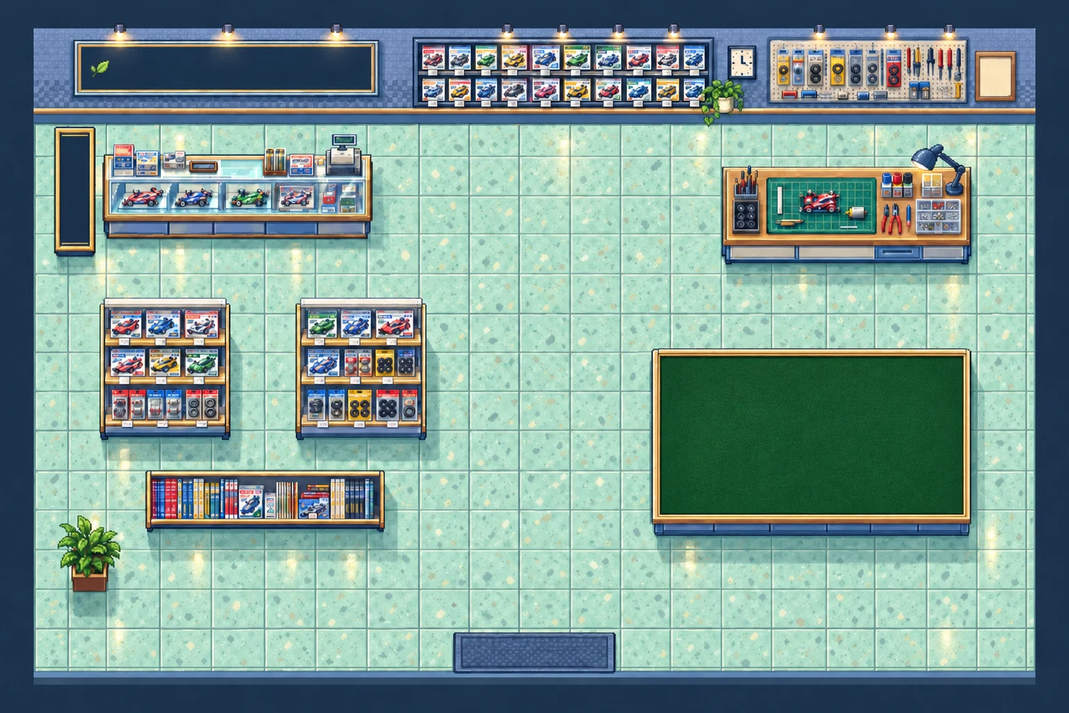
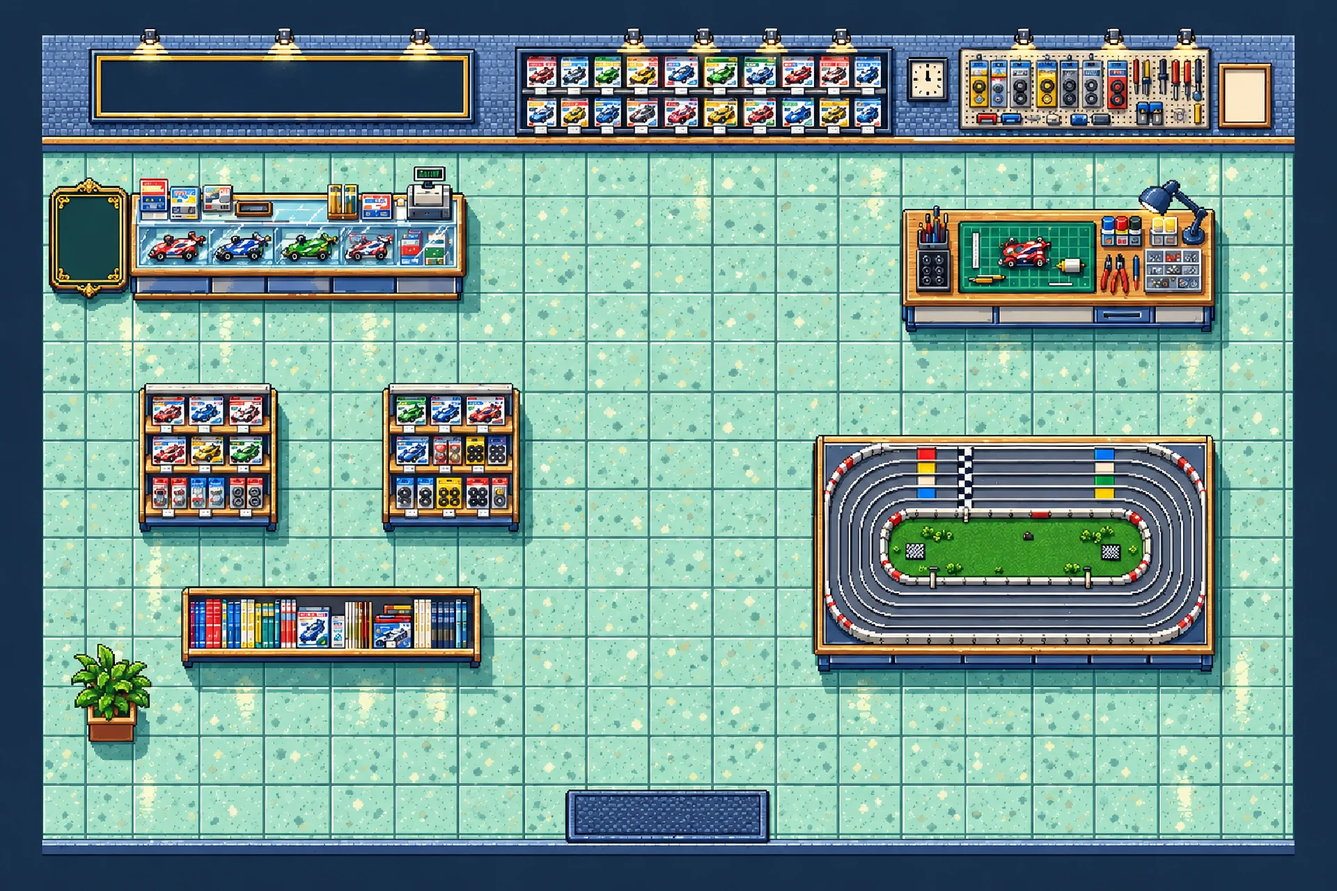
Refresh game art as high-detail pixel art

diff --git a/src/game/TownArt.ts b/src/game/TownArt.ts
@@ -68,25 +68,25 @@ function house(scene:Phaser.Scene,block:typeof townBlocks[number],index:number){
   if(index%3===1){const lx=xx+6,ly=yy+h-43;p.line([[lx,ly],[lx+46,ly+2]],'#485e5a',.5);for(let i=0;i<4;i++){const x=lx+3+i*11;p.rect(x,ly+2,8,11,['#d6c7ab','#889eab','#bc8e87','#90aa92'][i]);p.rect(x+1,ly+2,6,1,'#eaddbd');p.rect(x+2,ly+4,1,7,'#344c4b22');p.rect(x+3,ly,1,3,'#dbbd80');}}
   if(index%3===2){const bx=xx+w-18,by=yy+h+6;p.wheel(bx-9,by,7,'#a8b8ad');p.wheel(bx+12,by,7,'#a8b8ad');p.line([[bx-9,by],[bx-3,by-12],[bx+5,by],[bx-9,by],[bx+1,by-10],[bx+12,by]],'#7c4f57',1.5);p.line([[bx+12,by],[bx+9,by-15],[bx+14,by-15]],'#425e62',1);p.rect(bx-6,by-14,7,2,'#3a4f55');}
   for(const fx of [xx+6,xx+w-30]){p.rect(fx,yy+h+4,23,7,'#69775d');p.rect(fx,yy+h+4,23,1,'#b0ac7a');for(let j=0;j<5;j++){const xx=fx+2+j*4;p.rect(xx,yy+h,1,5,'#46674e');p.rect(xx-1,yy+h-2,3,2,j%2?'#d3b787':'#c68c8f');p.rect(xx,yy+h-2,1,1,'#f0d8a0');}}
-  t.refresh();t.setFilter(Phaser.Textures.FilterMode.LINEAR);
+  t.refresh();t.setFilter(Phaser.Textures.FilterMode.NEAREST);
  }
  scene.add.image(x-15,y-40,key).setOrigin(0).setDisplaySize(w+40,h+64).setDepth(y+h);
  if(w>=130){tree(scene,x-32,y+h+8);tree(scene,x+w+32,y+h+8);}else tree(scene,index%2?x-42:x+w+42,y+h-8);
 }
 export function drawTown(scene:Phaser.Scene,progress:WorldProgress){
  // 大きな街でも個々の地面テクスチャは2048px以下の幅に保つ。
- for(let x=0;x<townSize.width;x+=2048){const key=`midorikawa-ground-16-${x}`;if(!scene.textures.exists(key)){const texture=scene.textures.createCanvas(key,Math.min(2048,townSize.width-x),townSize.height)!;texture.context.translate(-x,0);ground(texture.context);texture.refresh();}scene.add.image(x,0,key).setOrigin(0).setDepth(-100);}
+ for(let x=0;x<townSize.width;x+=2048){const key=`midorikawa-ground-16-${x}`;if(!scene.textures.exists(key)){const texture=scene.textures.createCanvas(key,Math.min(2048,townSize.width-x),townSize.height)!;texture.context.translate(-x,0);ground(texture.context);texture.refresh();texture.setFilter(Phaser.Textures.FilterMode.NEAREST);}scene.add.image(x,0,key).setOrigin(0).setDepth(-100);}
 
  townBlocks.forEach((block,index)=>house(scene,block,index));
  for(const venue of townVenues)if(venue.kind==='outdoor')drawOutdoorCourse(scene,venue,isVenueOpen(venue,progress));else drawVenueFacade(scene,venue,isVenueOpen(venue,progress));
  for(const x of townRoads.vertical)for(let y=160;y<2300;y+=180){if(townVenues.some(v=>Math.abs(x-v.x)<v.w+100&&y>v.y-80&&y<v.y+v.h+70))continue;tree(scene,x-100,y);lamp(scene,x+88,y+50);}
  for(let i=0;i<55;i++){const x=110+(i*437)%2780,y=210+(i*281)%1980;if([...townVenues,...townBlocks].some(v=>x>v.x-90&&x<v.x+v.w+90&&y>v.y-100&&y<v.y+v.h+90)||townRoads.vertical.some(v=>Math.abs(v-x)<100)||townRoads.horizontal.some(v=>Math.abs(v-y)<100))continue;tree(scene,x,y);tree(scene,x+28,y+34);}
  for(const y of [100,2290])for(let x=100;x<2930;x+=125)tree(scene,x,y);
- for(const [x,y] of [[1440,1570],[1660,1570],[1440,1740],[1660,1740],[670,830],[2200,2040]]){tree(scene,x,y);const key='park-bench-16';if(!scene.textures.exists(key)){const t=scene.textures.createCanvas(key,112,64)!;t.context.scale(2,2);const p=new SceneryPen(t.context);p.shadow(3,14,45,10);for(const xx of [8,40]){p.rect(xx,14,3,15,'#3d5357');p.rect(xx+1,15,1,12,'#8fa19a');}p.rect(3,3,46,9,'#5c5d4a');for(let row=0;row<3;row++){p.gradient(4,3+row*3,44,2,'#c3ab7b','#947f5e');}p.gradient(3,14,46,7,'#d2b589','#8d7a5c');p.material(4,14,44,7,'wood',12);for(const xx of [8,41])p.rect(xx,15,1,1,'#e9d4a7');t.refresh();}scene.add.image(x+20,y+1,key).setOrigin(0).setDisplaySize(56,32).setDepth(y+24);}
+ for(const [x,y] of [[1440,1570],[1660,1570],[1440,1740],[1660,1740],[670,830],[2200,2040]]){tree(scene,x,y);const key='park-bench-16';if(!scene.textures.exists(key)){const t=scene.textures.createCanvas(key,112,64)!;t.context.scale(2,2);const p=new SceneryPen(t.context);p.shadow(3,14,45,10);for(const xx of [8,40]){p.rect(xx,14,3,15,'#3d5357');p.rect(xx+1,15,1,12,'#8fa19a');}p.rect(3,3,46,9,'#5c5d4a');for(let row=0;row<3;row++){p.gradient(4,3+row*3,44,2,'#c3ab7b','#947f5e');}p.gradient(3,14,46,7,'#d2b589','#8d7a5c');p.material(4,14,44,7,'wood',12);for(const xx of [8,41])p.rect(xx,15,1,1,'#e9d4a7');t.refresh();t.setFilter(Phaser.Textures.FilterMode.NEAREST);}scene.add.image(x+20,y+1,key).setOrigin(0).setDisplaySize(56,32).setDepth(y+24);}
 }
 function tree(scene:Phaser.Scene,x:number,y:number){
  if(townVenues.some(v=>v.kind==='outdoor'&&x>v.x-55&&x<v.x+v.w+55&&y>v.y-20&&y<v.y+v.h+95))return;
- const variant=artNoise(x,y)%7,key=`pixel-tree-16-${variant}`;if(!scene.textures.exists(key)){const t=scene.textures.createCanvas(key,192,240)!;t.context.scale(2,2);paintPixelTree(t.context,variant);t.refresh();}
+ const variant=artNoise(x,y)%7,key=`pixel-tree-16-${variant}`;if(!scene.textures.exists(key)){const t=scene.textures.createCanvas(key,192,240)!;t.context.scale(2,2);paintPixelTree(t.context,variant);t.refresh();t.setFilter(Phaser.Textures.FilterMode.NEAREST);}
  scene.add.image(x-48,y-104,key).setOrigin(0).setDisplaySize(96,120).setDepth(y+10);
 }
 function lamp(scene:Phaser.Scene,x:number,y:number){const g=scene.add.graphics().setDepth(y+4);g.fillStyle(0x334951,.15).fillEllipse(x+7,y+2,25,6);g.fillStyle(0x354b56).fillRect(x-4,y-56,8,60).fillRect(x-12,y-59,24,5);g.fillStyle(0x8ca09a).fillRect(x-2,y-53,2,55);g.fillStyle(0xd2c7a4).fillRect(x-1,y-53,1,55);g.fillStyle(0xb7b59b).fillRect(x-8,y-67,16,10);g.fillStyle(0xf1d79d).fillRect(x-6,y-66,12,7);g.fillStyle(0xffefbd).fillRect(x-5,y-66,5,5);g.fillStyle(0x3a5260).fillRect(x-11,y-70,22,4).fillRect(x-8,y-72,16,2).fillRect(x-7,y,14,4);}

diff --git a/src/game/VenueFacadeArt.ts b/src/game/VenueFacadeArt.ts
@@ -1,4 +1,4 @@
-import type Phaser from 'phaser';
+import Phaser from 'phaser';
 import type {TownVenue,ShopId} from '../data/world';
 import {shopThemes} from '../data/shopThemes';
 import {SceneryPen} from './SceneryCanvas';
@@ -43,10 +43,11 @@ export function paintVenueFacade(p:SceneryPen,v:TownVenue,open:boolean){
   p.rect(x-8,y+2,w+16,4,t.wood);p.rect(x-7,y+2,w+14,1,t.metal);
   for(let xx=x+13;xx<x+w-18;xx+=35){p.round(xx,y+14,26,25,1,'#5e6e7b');p.gradient(xx+2,y+16,22,20,'#a5c9c9','#7198a6');p.rect(xx+4,y+17,3,17,'#e5ecce88');p.rect(xx+12,y+16,1,20,'#d8d9bc');p.rect(xx-1,y+38,28,2,t.wood);}
   // 小さな模型の壁章。看板に文字は入れない。
-  p.round(x+7,y+46,w-14,25,2,t.wood);p.round(x+10,y+48,w-20,21,1,t.ink);
+  p.round(x+7,y+46,w-14,25,2,t.wood);p.rect(x+10,y+48,w-20,1,'#fff0cb88');p.round(x+10,y+48,w-20,21,1,t.ink);
   p.wheel(x+w/2-14,y+60,6,t.metal);p.wheel(x+w/2+14,y+60,6,t.metal);p.poly([[x+w/2-18,y+57],[x+w/2-5,y+51],[x+w/2+15,y+53],[x+w/2+21,y+58]],t.accent);
+  p.poly([[x+w/2-9,y+55],[x+w/2-3,y+52],[x+w/2+7,y+53],[x+w/2+10,y+56]],'#e8efdc');p.poly([[x+w/2-7,y+55],[x+w/2-2,y+53],[x+w/2+5,y+54],[x+w/2+7,y+56]],'#527582');p.rect(x+w/2-20,y+58,4,2,'#f3d48a');p.rect(x+w/2+18,y+58,4,2,'#f3d48a');p.line([[x+w/2-13,y+64],[x+w/2+13,y+64]],'#f0e4bd',.7);
   for(let i=0;i<12;i++){const xx=x+4+i*(w-8)/12;p.rect(xx,y+76,(w-8)/12,7,i%2?'#e4dec6':t.accent);p.rect(xx,y+83,(w-8)/12-1,3,i%2?'#b9b39e':t.wood);}
-  for(const xx of [x+12,x+w-62]){p.round(xx,y+92,50,37,2,t.ink);p.gradient(xx+3,y+94,44,30,'#a3c8c7','#6d969e');p.poly([[xx+5,y+95],[xx+16,y+95],[xx+8,y+123],[xx+5,y+123]],'#f6efcc55');for(let i=0;i<4;i++){p.rect(xx+5+i*10,y+115,8,9,[t.accent,'#b87e78','#c6b884','#829fb0'][i]);p.rect(xx+6+i*10,y+116,6,1,'#eee5c6');}}
+  for(const xx of [x+12,x+w-62]){p.round(xx-2,y+90,54,42,2,'#344a50');p.round(xx,y+92,50,37,2,t.ink);p.gradient(xx+3,y+94,44,30,'#a3c8c7','#6d969e');p.poly([[xx+5,y+95],[xx+16,y+95],[xx+8,y+123],[xx+5,y+123]],'#f6efcc66');p.rect(xx+4,y+94,41,.7,'#eff0d9');for(let i=0;i<4;i++){p.rect(xx+5+i*10,y+115,8,9,[t.accent,'#b87e78','#c6b884','#829fb0'][i]);p.rect(xx+6+i*10,y+116,6,1,'#eee5c6');p.rect(xx+7+i*10,y+118,1,4,'#32464a');}p.rect(xx+2,y+130,50,2,t.wood);p.rect(xx+4,y+132,46,1,'#3b4e4d');}
   const dx=x+w/2-14;p.round(dx,y+91,28,h-94,2,t.ink);p.gradient(dx+3,y+94,22,25,'#c7d9cc','#7b9fa9');p.rect(dx+21,y+123,3,3,'#dec388');p.gradient(x+4,y+h-6,w-8,6,'#d1c6aa','#8a8a7c');
   p.plant(x+4,y+h-4,.75);p.plant(x+w-5,y+h-4,.75);
   if(v.id==='hinata'){p.wheel(x+20,y+h-14,9,'#aa9170');p.wheel(x+22,y+h-21,9,'#b5a281');}
@@ -78,6 +79,6 @@ export function paintVenueFacade(p:SceneryPen,v:TownVenue,open:boolean){
 }
 export function drawVenueFacade(scene:Phaser.Scene,v:TownVenue,open:boolean){
  const key=`facade-v3-${v.id}-${open}`,width=v.w+80,height=v.h+125;
- if(!scene.textures.exists(key)){const t=scene.textures.createCanvas(key,width*2,height*2)!;t.context.scale(2,2);paintVenueFacade(new SceneryPen(t.context),v,open);t.refresh();}
+ if(!scene.textures.exists(key)){const t=scene.textures.createCanvas(key,width*2,height*2)!;t.context.scale(2,2);paintVenueFacade(new SceneryPen(t.context),v,open);t.refresh();t.setFilter(Phaser.Textures.FilterMode.NEAREST);}
  scene.add.image(v.x-40,v.y-91,key).setOrigin(0).setDisplaySize(width,height).setDepth(v.y+v.h);
 }

diff --git a/src/game/PaintedScenery.ts b/src/game/PaintedScenery.ts
@@ -1,15 +1,19 @@
-import type Phaser from 'phaser';
+import Phaser from 'phaser';
 import type {Fixture} from '../data/shop';
 import {paintedSceneryLayout,paintedFixtureFrame} from '../data/paintedSceneryLayout';
 import {sceneryKey} from '../data/scenery';
 
 export function drawPaintedScenery(scene:Phaser.Scene,id:string){
  const key=sceneryKey(id);if(!scene.textures.exists(key))return false;
+ // 2 px/world-unit pixel-art source: nearest sampling preserves crisp clusters
+ // when the 960x640 map is rendered at the device's capped DPR2 resolution.
+ scene.textures.get(key).setFilter(Phaser.Textures.FilterMode.NEAREST);
  const {bounds,mirrored}=paintedSceneryLayout(id);
  scene.add.image(bounds.x,bounds.y,key).setOrigin(0).setDisplaySize(bounds.width,bounds.height).setFlipX(mirrored).setDepth(-100);return true;
 }
 export function drawPaintedFixture(scene:Phaser.Scene,id:string,f:Pick<Fixture,'x'|'y'|'w'|'h'>){
  const key=sceneryKey(id);if(!scene.textures.exists(key))return false;
+ scene.textures.get(key).setFilter(Phaser.Textures.FilterMode.NEAREST);
  const {mirrored}=paintedSceneryLayout(id),texture=scene.textures.get(key),image=texture.getSourceImage() as HTMLImageElement;
  const crop=paintedFixtureFrame(id,f,image.width,image.height),frame=`cut-${f.x}-${f.y}-${f.w}-${f.h}`;
  if(!texture.has(frame))texture.add(frame,0,crop.x,crop.y,crop.width,crop.height);

diff --git a/src/game/ShopTrackArt.ts b/src/game/ShopTrackArt.ts
@@ -1,4 +1,4 @@
-import type Phaser from 'phaser';
+import Phaser from 'phaser';
 import type {Fixture} from '../data/shop';
 import type {CircuitTrack} from '../data/circuit';
 import {shopTrackLayout,type ShopTrackPoint} from './shopTrackLayout';
@@ -44,7 +44,7 @@ export function drawShopTrack(scene:Phaser.Scene,f:Fixture,track:CircuitTrack,de
   // Three tiny parked/display cars communicate the scale of the miniature.
   for(let i=0;i<3;i++){const index=Math.floor(centerline.length*(.13+i*.27)),pt=centerline[index],a=centerline[index-2],b=centerline[index+2];c.save();c.translate(pt.x,pt.y);c.rotate(Math.atan2(b.y-a.y,b.x-a.x));p.rect(-2,-1.6,4,3.2,'#263c46');p.rect(-1.4,-1.2,2.8,2.4,['#bf786a','#ddc28a','#87b5bb'][i]);p.rect(-.1,-.75,1,1.5,'#263e4c');p.rect(-1.5,-1.4,.5,2.8,'#e8d6a6');c.restore();}
   if(!painted)for(const x of [4,f.w-5])for(const y of [5,f.h-6]){p.rect(x,y,1,1,'#eff0cf');p.rect(x+1,y+1,.5,.5,'#455e5c');}
-  texture.refresh();
+  texture.refresh();texture.setFilter(Phaser.Textures.FilterMode.NEAREST);
  }
  scene.add.image(f.x,f.y,key).setOrigin(0).setDisplaySize(f.w,f.h).setDepth(depth);
 }

diff --git a/src/game/WorldDetailArt.ts b/src/game/WorldDetailArt.ts
@@ -1,4 +1,4 @@
-import type Phaser from 'phaser';
+import Phaser from 'phaser';
 import {SceneryPen} from './SceneryCanvas';
 import {shopLayout} from '../data/shopLayout';
 import type {ShopId} from '../data/world';
@@ -16,7 +16,7 @@ export function drawRoomFinish(scene:Phaser.Scene,id:string,fixtures:readonly {x
   p.rect(43,110,874,2,'#263e4c77');p.rect(43,111,874,.5,accent);p.material(44,104,872,8,'metal',13);
   // Grille and small rivets along the lower wall/skirting bind every room's materials.
   for(let x=48;x<914;x+=24){p.rect(x,601,1,1,'#f5e4bb60');p.rect(x+1,602,1,1,'#243d4755');}p.rect(44,605,872,1,'#d5c39655');
-  t.refresh();}
+  t.refresh();t.setFilter(Phaser.Textures.FilterMode.NEAREST);}
  scene.add.image(0,0,key).setOrigin(0).setDisplaySize(960,640).setDepth(id==='library'?-9:id.startsWith('stadium-')?-19:-85);
 }
 export function drawShopDetails(scene:Phaser.Scene,_mirrored=false,id:ShopId='komorebi'){

diff --git a/src/game/ThemedShopArt.ts b/src/game/ThemedShopArt.ts
@@ -1,7 +1,7 @@
 import {isPracticeCourse} from '../data/practiceCourses';
 import {isSpecialtyShop} from '../data/specialtyParts';
 import {drawPaintedScenery,drawPaintedFixture} from './PaintedScenery';
-import type Phaser from 'phaser';
+import Phaser from 'phaser';
 import type {ShopId} from '../data/world';
 import {shopThemes,type ShopTheme} from '../data/shopThemes';
 import type {Fixture} from '../data/shop';
@@ -9,6 +9,7 @@ import {SceneryPen} from './SceneryCanvas';
 
 function texture(scene:Phaser.Scene,key:string,w:number,h:number,paint:(p:SceneryPen)=>void){
  if(!scene.textures.exists(key)){const t=scene.textures.createCanvas(key,Math.ceil(w*2),Math.ceil(h*2))!;t.context.scale(2,2);paint(new SceneryPen(t.context));t.refresh();}
+ scene.textures.get(key).setFilter(Phaser.Textures.FilterMode.NEAREST);
  return key;
 }
 function car(p:SceneryPen,x:number,y:number,s:number,color:string){

diff --git a/docs/scenery-art.md b/docs/scenery-art.md
@@ -1,41 +1,45 @@
-# 店舗・会場の2D原画
+# 店舗・会場・町の2D原画
 
-各施設の原画は `src/assets/scenery/<施設ID>.webp`。7店舗と4公式会場に別々の原画を用意。画像は1536px級の原画を品質88のWebPに変換したもの。元PNGは生成作業用ディレクトリに残す。
+## 施設原画
 
-| 店舗 | デザイン |
+通常店舗、専門店、耐久店、公式会場の背景は`src/assets/scenery/<施設ID>.webp`に置く。2026-11-10、全12枚を高精細ピクセルアートへ描き直した。店舗は1920×1280、公式会場は1760×1158で、論理範囲の縦横2倍の原画密度を持つ。WebP品質86で細部と転送量のバランスを取り、施設ごとに約0.5〜0.7MBへ収めた。素材は生成画像を元に、各施設固有の色・掲示・設備を維持している。既存ゲーム作品の画像・ロゴ・キャラクターデザインは使わない。
+
+| 施設ID | 維持するテーマ |
 | --- | --- |
-| komorebi | 以前のミント色タイル・青灰色の壁・木とスチールの家具、葉のマーク |
-| aozora | 空色とパールグレーのタイル・青白い家具・小さなレース旗 |
-| hinata | 砂色とクリームのタイル・オリーブ／橙の家具・壁のタイヤとホース |
-| wakaba | 若草とクリームのタイル・緑の家具・棚上の植物 |
-| yuunagi | 青灰色と薄紫のタイル・使い込んだ木・壁の波と船の小物 |
-| akatsuki | 淡いテラコッタのタイル・えんじの家具・控えめなトロフィー |
-| atelier | 薄紫と灰色のタイル・実用的な工具・小さな天体模型とパーツ展示 |
+| komorebi | 青緑タイル、青灰色の壁、木とスチール、葉の掲示 |
+| aozora | 空色とパールグレー、青白い家具、小さなレース旗 |
+| hinata | 砂色とクリーム、オリーブ・橙色、壁のタイヤとホース |
+| wakaba | 若草色とクリーム、緑の家具と植物 |
+| yuunagi | 青灰色と薄紫、波・船の小物 |
+| akatsuki | テラコッタ、えんじ色、控えめなトロフィー |
+| atelier | 薄紫と灰色、工具と小さな天体モチーフ |
+| endurance | 耐久レース用の実用的な設備と落ち着いた配色 |
+| stadium-5 / 7 / 9 / 10 | 大会ごとの緑・紺・紫・赤系のアクセントと観客席 |
 
-公式会場は大会別に緑・紫・赤金・紺金のパレット。観客席・トラス照明・金属フレーム・チェッカー・トロフィーを描く。全施設の背景に説明文・店名・コース名・NPC名を描かない。記録や購入など操作用モーダルの文字は残す。
+店舗画像は全室`{x:0,y:0,width:960,height:640}`へ、会場画像は`roomView={x:40,y:35,width:880,height:579}`へ配置する。あおぞらは原画と前景切り抜きを同じように左右反転する。`drawPaintedFixture`は背景と同じ画像から同じ座標変換で家具を切り出し、人物との前後関係を保つ。家具の位置、歩行通路、当たり判定、入口、設備のタップ範囲は`shopLayout`と既存データを使い、変更しない。コース面は背景へ描き込まず、`drawShopTrack`が実形状を描画する。
 
-模型店の背景は旧原画と同じ全室 `{x:0,y:0,width:960,height:640}` に配置し、会場は `roomView={x:40,y:35,width:880,height:579}` に配置する。あおぞらは背景と前景を同じように左右反転する。家具の前景は同じ原画から同じ座標変換で切り出し、底辺のY座標で人物と前後を判定。通路・当たり判定・設備のタップ領域は既存のデータを維持する。コースは原画へ焼き込まず、暗緑の台に `drawShopTrack` が実コースの形を描く。
+通常の模型店では南側入口から受付、左右の商品棚・本棚、奥の整備台、右奥の試走コースへ通路が続く。公式会場は外周の観覧席から中央のコースを見られる配置を保つ。画像上の飾りを増やす場合も、通路や操作対象の位置を塞がない。
 
-`ThemedShopArt`・`OfficialVenueArt` のCanvas描画は原画が取得できない場合のフォールバック。`VenueFacadeArt` は町の建物を店舗ごとの異なる屋根・窓・素材で描画する。地面は一枚のテクスチャに焼き込み、移動中の負荷を抑える。
+`PaintedScenery`は背景テクスチャにNEARESTフィルターを設定し、ピクセル塊を保って描く。画像がない施設では`ThemedShopArt`または`OfficialVenueArt`のCanvas描画をフォールバックとして使う。専門店の駆動・速度・悪路店は従来どおり、ひなた・あおぞら・わかばの専用背景を共有する。
 
-会話用の `npc-atlas.webp` は4列4行の16種類の顔。上2行は7店舗の店主と受付、下2行は凪・結衣・匠・蓮・蒼・桃香・陸・レース係。`npcAppearance` でセルと身体的特徴を固定し、`NpcPeopleArt` の歩行・順位欄に同じ輪郭・目・髪型を反映する。レジェンド4人は従来の専用原画を保持する。
+## 町
 
-歩行速度は町282、店内・会場190（従来比約20%増）。店内と町は引き続き同じカメラ倍率を使用。
+街の地面・道路・住宅・瓦・植栽・街灯・ベンチは`TownArt.ts`、素材模様と樹冠は`PixelArtMaterials.ts`、建物外観は`VenueFacadeArt.ts`、観客・住人は`TownCrowdArt.ts`で作る。地面は2048ワールド単位以下の幅に分割して一度だけ描画し、装飾はキャッシュした原画を使う。街マップは既存の座標・道路・建物・外コース・NPC配置をそのまま維持し、室内原画と同じ青緑・木色・段階影・硬いピクセル輪郭へ寄せる。
 
-検証（2026-11-04）：全241テスト、typecheck、buildが成功。全7店舗・全4会場・町の12シーンを実ブラウザで開き、背景Textオブジェクトが0件、実行時エラーが0件であることを確認。スマホDPR2で町・店内・会場の倍率一致、40msの移動量（町11.28／店内7.6）、ピットから設定画面を開けること、3D拡大レースで回転と追加会場の描画が動作することを確認。
+## 原画更新の手順
 
-2026-11-04の追加指定：店舗は以前のinterior-v1の雰囲気を保ち、店別の色と控えめな小物で描き分ける。豪華な大理石・金装飾・大きな窓での店舗改装は撤回。会場の原画は維持。
+1. 現在の画像と`docs/art/shop-layout-reference.png`を配置参照として開く。
+2. 同じ俯瞰画角、キャンバス比率、家具の矩形、空いた通路を固定して描き直す。
+3. 各店の色テーマと、商品箱・工具・模型コースなどの固有要素を維持する。
+4. 背景と前景を同じ原画から切り出し、`paintedSceneryLayout`と`paintedFixtureFrame`で位置を照合する。
+5. 同じカメラ位置のスクリーンショットで、人物・家具・通路・文字の重なりを確認する。
 
-追加調整の検証：typecheck・buildと関連13テスト成功。全7店舗・全4会場・町の表示を再確認し、背景Textオブジェクト0件・実行時エラー0件。スマホでも内外の倍率、約2割速い移動、設定画面への操作を再確認した。
+町の画像は広域一枚絵にしない。街の配置変更が必要になった場合は、`world.ts`の建物・道路・入口・衝突データと`townCrowd.ts`の人物配置を先に見直し、ゲーム内の座標関係をテストする。
 
-## 専門店の原画と今後の制作
+## 町の住人と人物
 
-2026-11-08の調査：`interior-v1.webp` 自体は削除されていない。通常店は `07b2686` 以降 `scenery/` の店別原画を使用しているが、`2d0aaf9` の専門店追加時に専用WebPが用意されず、店内は `ThemedShopArt` の図形フォールバックになっていた。耐久店も同じ状態だった。
+会話用`npc-atlas.webp`は4列4行の顔画像。`npcAppearance`の人物設定を歩行・順位欄にも反映し、同一人物の輪郭・目・髪・服を一致させる。歩行原画は60×80、表示は48×64。足元を固定した4方向×4フレームを使い、影、移動速度、会話位置、衝突判定は装飾変更で動かさない。
 
-専門店は同じ960×640の家具配置を使うため、駆動店はひなた、速度店はあおぞら、悪路店はわかばの高精細原画を参照し、耐久店は同じ配置を基準に画像生成した `scenery/endurance.webp` を使用する。背景と家具の前景は施設IDごとに同じ画像を参照し、当たり判定・タップ範囲を変更しない。専門店の展示は従来の表示を維持する。既存の星霧工房・通常店の画像と表示は変えない。
+## 検証
 
-専門店ごとの完全な専用背景、街の建物外観・広域地面、全方向・全歩行フレームの人物原画は今後の課題。原画制作時は各施設の現行画面と `docs/art/shop-layout-reference.png` を入力し、同じ画角・縮尺・家具の矩形と出口を固定する。背景と前景を同一画像から切り出し、家具と人物の前後関係、タップ箇所、進入不能箇所を確認してからWebPにする。街は3200×2400の既存施設・道路・衝突矩形を座標参照として保ち、広域画像を一括生成せず、建物・樹木・地面を透過素材または複数タイルとして配置検証する。人物は `pixel-art-direction.md` の方向・歩行フレーム仕様に従う。
-
-専用背景用プロンプト例：
-
-> Repaint the supplied original 960×640 overhead game-room layout as a detailed original 16-bit miniature racing specialist shop. Preserve every fixture's exact position, size, silhouette, floor paths and exit; use the supplied high-detail model shop image as a palette and pixel-density reference. Depict distinctive individually illustrated motor, gear, tire and tool packages, realistic wood and metal shelves, glass reflections and soft upper-left light. Keep the existing right-hand display footprint empty for the game's live overlay. No characters, UI, legible text, extra floor objects or changes to camera or projection.
+型チェックとビルドに加え、全7店舗・耐久店・全4公式会場・町を実ブラウザで表示し、画像の前景切り抜き、NPCの前後関係、画面端の欠け、背景Textの増加、実行時エラーを確認する。DPR2のモバイル表示も確認する。iPhone Safari実機での確認ができない場合は、その旨を報告する。

diff --git a/docs/pixel-art-direction.md b/docs/pixel-art-direction.md
@@ -1,29 +1,29 @@
-# 16bit風アートの共通方針
+# 高精細ピクセルアートの共通基準
 
-街・建物・店内・会場・人物・UIを、低彩度の青緑、暖かい石色、金属の淡い金色で統一する。光は左上、接地影は右下。滑らかなグラデーションより段階的な色面と細かなハイライトを使い、木目・石目・金具・布地を描き分ける。
+ゲーム全体を、現代の高DPI画面でも輪郭が読めるオリジナルの高精細ピクセルアートで描く。既存作品の素材や固有デザインは参照せず、模型店・町工場・模型レース会場の日常を中心にする。写実的な3D表現、強い発光、過剰な金装飾・大理石、意味のない小物の追加は避ける。
 
-- `PixelArtMaterials.ts` は座標から決まる素材模様と樹木の葉群を描く。フレームごとの乱数は使わない。
-- `SceneryCanvas.ts` は段階色、面取り、接地影、素材描画の共通部品。
-- `TownArt.ts` は地面、舗道、道路、住宅、樹木、街灯、ベンチ。地面と装飾はテクスチャに焼き、毎フレームの描画命令を増やさない。
-- `ShopTrackArt.ts` は実コース形状を参照し、厚みのあるレーン、継ぎ目、固定具、高架、スタート設備を描く。走行物理やコース形状は変更しない。
-- `RecordBoardArt.ts` はトロフィーと時計を使った共通看板。文字・記録一覧は操作後のUIで表示する。屋外は `outdoorTimeBoardPlacement` を描画とタップ範囲で共用する。
-- `WorldDetailArt.ts` は各室の採光・素材・縁取りを追加する。既存の店舗・会場の背景原画と家具原画は維持する。図書館は `LibraryRoomArt.ts` で床板、本の装丁、棚の金具、机を描く。
-- 人物の共通仕上げは `pixelDrawing.ts`。輪郭・服装・共通テクスチャ寸法・表示寸法を変えず、半ドットの縫い目と反射光を追加する。
+## 描画基準
 
-装飾の変更で歩行判定、設備配置、進行、所持品、セーブデータ、オンライン記録条件を変えない。PCとスマホの両方で人物・看板の判別性を確認する。
+- 俯瞰型2D RPGの視点を使い、壁・床・家具・人物の見下ろし角度を揃える。
+- 店内の論理座標は960×640、会場は880×579の`roomView`、町は`townSize`の座標を使う。ゲーム座標は連続値で、16ワールド単位を見た目の整列基準とする。既存の自由配置マップをタイル移動へ変えない。
+- 人物の原画枠は60×80、表示は48×64ワールド単位。足元の基準点、歩行フレーム、会話位置、衝突判定は変えない。
+- 店内背景は1920×1280、公式会場は1760×1158（各論理範囲の2倍）。町の小物とタイルも個別に2倍以上の原画を使い、最終表示に必要な細部を描き込む。アップスケールだけを品質改善とみなさない。
+- 光源は左上を基本に、素材ごとの明暗段階、接地影、細い反射光をピクセルの塊で描く。木、塗装金属、透明ケース、プラスチック、布、土、舗装の質感を描き分ける。
+- 施設は共通の海青・青緑・木色を基調に、店ごとのアクセント色で見分ける。競技会場は大会ごとの色を残し、観客席・足場・照明・コース床を実用的な設備として描く。
 
-## 街の生活感
+## 空間設計と互換性
 
-`world.ts` は既存施設を維持して空き区画へ住宅を補充する。住宅は歩行障害物として共用し、地図にも描く。店・コース・住宅に加え、帰還地点と道路の通路を空ける。
+店内では南側の入口（`shopExit`）から受付カウンター、左右の商品棚・本棚、奥の整備台、コースと観覧場所へ視線と通路をつなぐ。`shopLayout`をマップ配置の唯一の基準とし、画像の家具・通路をその配置に合わせる。店の通常コースは台上の模型ではなく、`drawShopTrack`が実際のコース形状を描く。
 
-`townCrowd.ts` はコースを見る観客、店先・歩道・住宅前の住民を座標固定で配置する。入口・帰還地点・看板前・案内人の会話位置を確保し、足元の障害物を `ShopScene` の経路探索と衝突判定へ渡す。`TownCrowdArt.ts` は共通人物原画で子ども・大人・年配の外観を使い、模型や袋を持たせる。足元の位置を動かさず、ときどき顔を向ける仕草を付け、画面外は描画しない。進行や保存データに群衆を追加しない。
+町の道路、建物、入口、住人、外コースは`world.ts`、`townCrowd.ts`、`TownArt.ts`の座標を基準にする。画像の更新では施設ID、オブジェクト矩形、タップ範囲、入口、衝突判定、イベント、セーブデータを変えない。広域の町画像を一枚絵に置き換えず、既存の反復描画とキャッシュ済みテクスチャを維持する。
 
-`townLife.test.ts` は全コースの観客、配置の再現性、施設・看板・案内人・職人までの実歩行経路を検証する。
+## 描画と端末
 
-## 人物と屋外コースの仕上げ
+- `shopRenderScale`はCSSサイズと描画解像度を分け、DPR2を上限として画面サイズ・テクスチャ負荷を抑える。
+- 店内・会場背景のピクセルアートは`PaintedScenery`でNEARESTサンプリングし、元絵のピクセル塊をぼかさない。移動カメラ、文字、UIは現行の滑らかな操作と可読性を保つ。
+- 町の広域地面は2048ワールド単位以下の幅に分割する。移動中に作り直さない背景・家具は一枚のキャッシュテクスチャに焼き込む。
+- 人物の4方向×4歩行フレームは同じキャラクターの髪・顔・服・足元をそろえる。`PeopleArt`、`NpcPeopleArt`、`PersonTexture`の表示寸法と接地影を共有する。
 
-人物の60×80原画は各キャラクターと方向の形状を維持し、住人の髪の束・目元・衣服の縫い目に半ドットの明暗を加える。歩行の足運びと上下動は原画のフレームで表現し、歩行速度・接触判定は変えない。街・店内の人物は左上からの光と二段階の接地影を共有する。道路の骨材、樹冠の葉群、コース外壁とレーン縁の明暗は既存のキャッシュ済み描画に焼き込み、毎フレームのオブジェクトを増やさない。
+## 変更後の確認
 
-画像生成を使った将来の原画更新では、単発のイラストを歩行画像に置き換えず、同一人物の4方向×4歩行フレーム、60×80の範囲、足元位置、半ドット格子、透過背景を揃えてから個別に検証する。生成用の指示例：
-
-> Create an original Japanese 16-bit RPG character sprite sheet using the supplied existing character as an identity and costume reference. Four directions (front, left, back, right), four walk frames per direction, same exact head size, proportions, foot anchor and costume in every frame. Refined clusters for hair, fabric folds, shoes and warm upper-left light; restrained blue-green and warm stone palette matching the supplied model-shop background. Transparent background, no labels, no ground shadow, no blur, no glow, no perspective change. Preserve the character's defining hair, facial features and clothing; do not copy any existing franchise character.
+施設原画を更新したら、全施設を960×640の論理配置へ重ね、`paintedSceneryLayout`と`paintedFixtureFrame`で家具の前景切り抜きが一致することを確認する。町は同じ画面サイズ・カメラ位置で道路幅、建物入口、NPC・外コースの位置を確認する。iPhone Safariの実機確認ができない場合はDPR2のモバイルブラウザで確認し、実機未検証を記録する。

diff --git a/docs/shop-interior-art.md b/docs/shop-interior-art.md
@@ -1,23 +1,26 @@
-# 店内の専用背景
+# 模型店の店内アート
 
-組み込み画像生成ツールで独自の模型店を制作。既存ゲームの画像は素材として使用していません。
+## 現在の制作方式
 
-- 配置参照: [art/shop-layout-reference.png](art/shop-layout-reference.png)。既存描画から人物・UIを除いた960×640の配置図。
-- 使用画像: `src/assets/shop/interior-v1.webp`。画像生成の原画1536×1024を最近傍補間で1920×1280へ調整しWebP品質90へ変換。
-- 論理マップは960×640。画像の家具輪郭に合わせ`src/data/shop.ts`の当たり判定を調整。
-- 背景と前景は同一テクスチャを共有。家具の底辺で重なり順を決定。前景は家具の上端から切り出し、不透明な床で背後の人物を隠さない。
-- 店名・熟練度表・分類はライブテキスト。人物は60×80歩行スプライトを継続使用。
-- 背景読み込み失敗時は従来のコード描画へフォールバック。
+実際の店内表示は`src/assets/scenery/<施設ID>.webp`を`PaintedScenery`から読み込む。`src/assets/shop/interior-v1.webp`はこもれび模型店の高精細ピクセルアート原画を確認するための参照コピーで、ゲーム内では施設別の`scenery/`画像が使われる。2026-11-10に全店舗・専門店・耐久店の原画を更新し、各施設の色・壁掲示・設備を残して同じスタイルに揃えた。
 
-## 人物に合わせた家具の縮尺調整
+- 論理室内は960×640。背景は1920×1280、WebPで描画する。
+- 入口は南側の`shopExit`、開始位置は`room.spawn`。これらは変更しない。
+- 家具の論理位置は`shopLayout`が決める。通常店は入口→受付・商品棚→本棚・整備台→コースの順に見通せる。コースは実際の試走設備として扱い、`drawShopTrack`の形状と走行ロジックを使う。
+- 描画は背景と同じ画像から家具を切り出す。`drawPaintedFixture`が家具の下端で深度を決め、歩行人物が家具の後ろへ隠れる。画像全体を家具の当たり判定に使うことはせず、既存のfixture矩形と移動判定を維持する。
+- 店名、説明、記録、購入、キャラクターはゲーム内の文字・人物・UIで表示する。背景画像へ焼き込まない。
+- `shopRenderScale`はDPR2まででCSS表示寸法と描画解像度を分離する。`PaintedScenery`はNEARESTサンプリングを使い、背景のピクセル輪郭を保つ。
 
-2026-11-10、人物スプライト（48×64論理px）と比べて縦長だった熟練度掲示板と大きすぎた商品棚を見直しました。掲示板は57×80、商品棚は93〜95×102論理pxにし、床に置く棚は元の位置を保って縮小しました。配置と当たり判定は同じ `shop.ts` のFixture値から描画します。作業台・カウンター・コースと経路探索の処理は維持し、縮小した障害物に合わせて到達性を再検証しました。
+## 家具と通路の縮尺
 
-## 最終生成プロンプト
+2026-11-10、歩行スプライト（48×64ワールド単位）に対して大きすぎた掲示板と商品棚を縮小した。掲示板は57×80、商品棚は93〜95×102。床置き家具は配置基準を保ったまま縮尺を調整し、作業台・カウンター・コースと経路探索は維持した。座標は`src/data/shop.ts`と`src/data/shopLayout.ts`から共用する。
+
+## 画像更新時の品質確認
+
+画像生成や手描きでは、既存施設の画面と`docs/art/shop-layout-reference.png`を配置の根拠として使う。高詳細なピクセルクラスター、素材ごとの輪郭、段階的な接地影、店ごとの識別色を描き、単なる解像度拡大や均一な記号の商品棚で済ませない。入口、カウンター、棚、整備台、コース、観覧場所の位置と通路を保ち、操作対象の矩形に合わせてからWebP化する。
 
 ```text
-Use case: style-transfer / game environment production art. Input image is the EXACT ORIGINAL GAME MAP LAYOUT, not a visual quality target. Repaint this entire 960x640 LANDSCAPE 3:2 map into much richer, beautiful hand-crafted 16-bit Japanese console RPG pixel art of a welcoming miniature racing model hobby shop. This is a usable game background asset, NOT a mockup or cinematic illustration. CRITICAL: keep the same straight-on overhead RPG projection, same canvas bounds, same wall/floor boundary, SAME position and screen-space bounding footprint of EVERY fixture. Do not rotate, tilt, zoom, crop, center or rearrange the room. Floor grid stays axis-aligned, no vanishing point. No people, characters, UI, dialogue boxes or portraits anywhere. No logos or existing franchise graphics. No readable text: leave the top-left shop sign and the tall left ranking board as clean empty dark panels for live text overlays.
-Make the art much more detailed and inviting than the primitive reference: restrained mint/seafoam terrazzo tiles with small natural stone flecks, less heavy repetitive grid, blue-gray textured wall, warm cream and periwinkle counters with wooden trim, carefully shaded contact shadows and tiny soft reflected highlights. Add handcrafted pixel detail, not photorealism, no blurry painting, no 3D render, no isometric diorama. Rich but controlled colorful palettes and deliberate crisp pixel clusters.
-Exact objects to preserve, coordinates in the original 960x640 layout: ranking board at (56,124) size38x116, EMPTY dark middle; original glass counter at (100,150) size230x62, with tiny original racing models under glass, top tray, register, catalog and package stacks ONLY on its surface; two three-tier merchandise shelves at (100,290) and (270,290), each100x120, each packed with genuinely DIFFERENT illustrated model kit boxes, motors in blister packs, tire packets and price labels rather than abstract plus symbols; a low hint bookcase at (140,440) size190x50, recognizable book spines and magazines; a hobby workbench at (660,160) size195x85, with green cutting mat, a tiny red racing model, screwdriver, motor, organizer trays and a task lamp WITHIN its existing footprint; five-lane mini oval course at (590,340) size265x145, white guardrails, colored lane starts, small course markings and textured green infield; leafy potted plant at (70,490) size40x45; entry mat at (409,570) size145x30. The upper wall strip y35..120 contains hanging model-kit racks, pegboard tools, wall clock and the blank shop sign; enrich these existing displays without adding floor furniture. Keep all existing open floor paths clear. Do NOT add extra shelves, chairs, floor boxes, doors, tables, windows or objects in walkable areas. Favor visual craftsmanship and material detail over random clutter. All product box artwork is original tiny racing vehicles with no trademarks. No watermark.
+Repaint the supplied exact 960x640 overhead Japanese model-shop game map as original high-detail pixel art. Keep the identical top-down RPG camera, canvas bounds, wall/floor boundary, furniture footprints, course position, entrance and walkable floor paths. Preserve this shop's own palette and fixtures. Draw crisp, deliberate pixel clusters with distinct wood, painted metal, plastic, glass, tile and fabric materials, individually illustrated original model-kit boxes and tools, and stepped contact shadows under the furniture. No photorealism, 3D render, blur, glow, marble, excessive gold, text, logos, characters or UI. Do not add, remove, move, resize or rotate furniture; do not block any open walking area. Keep the actual course footprint and fixture locations aligned to the reference.
 ```
 
+画像を反映したら、`paintedSceneryLayout`、`paintedFixtureFrame`で家具の切り出しと前後関係を確認する。画面幅390px相当とDPR2で入口、人物、コース、家具の輪郭が読み取れることを確かめる。背景更新だけで当たり判定や進行を変更しない。
